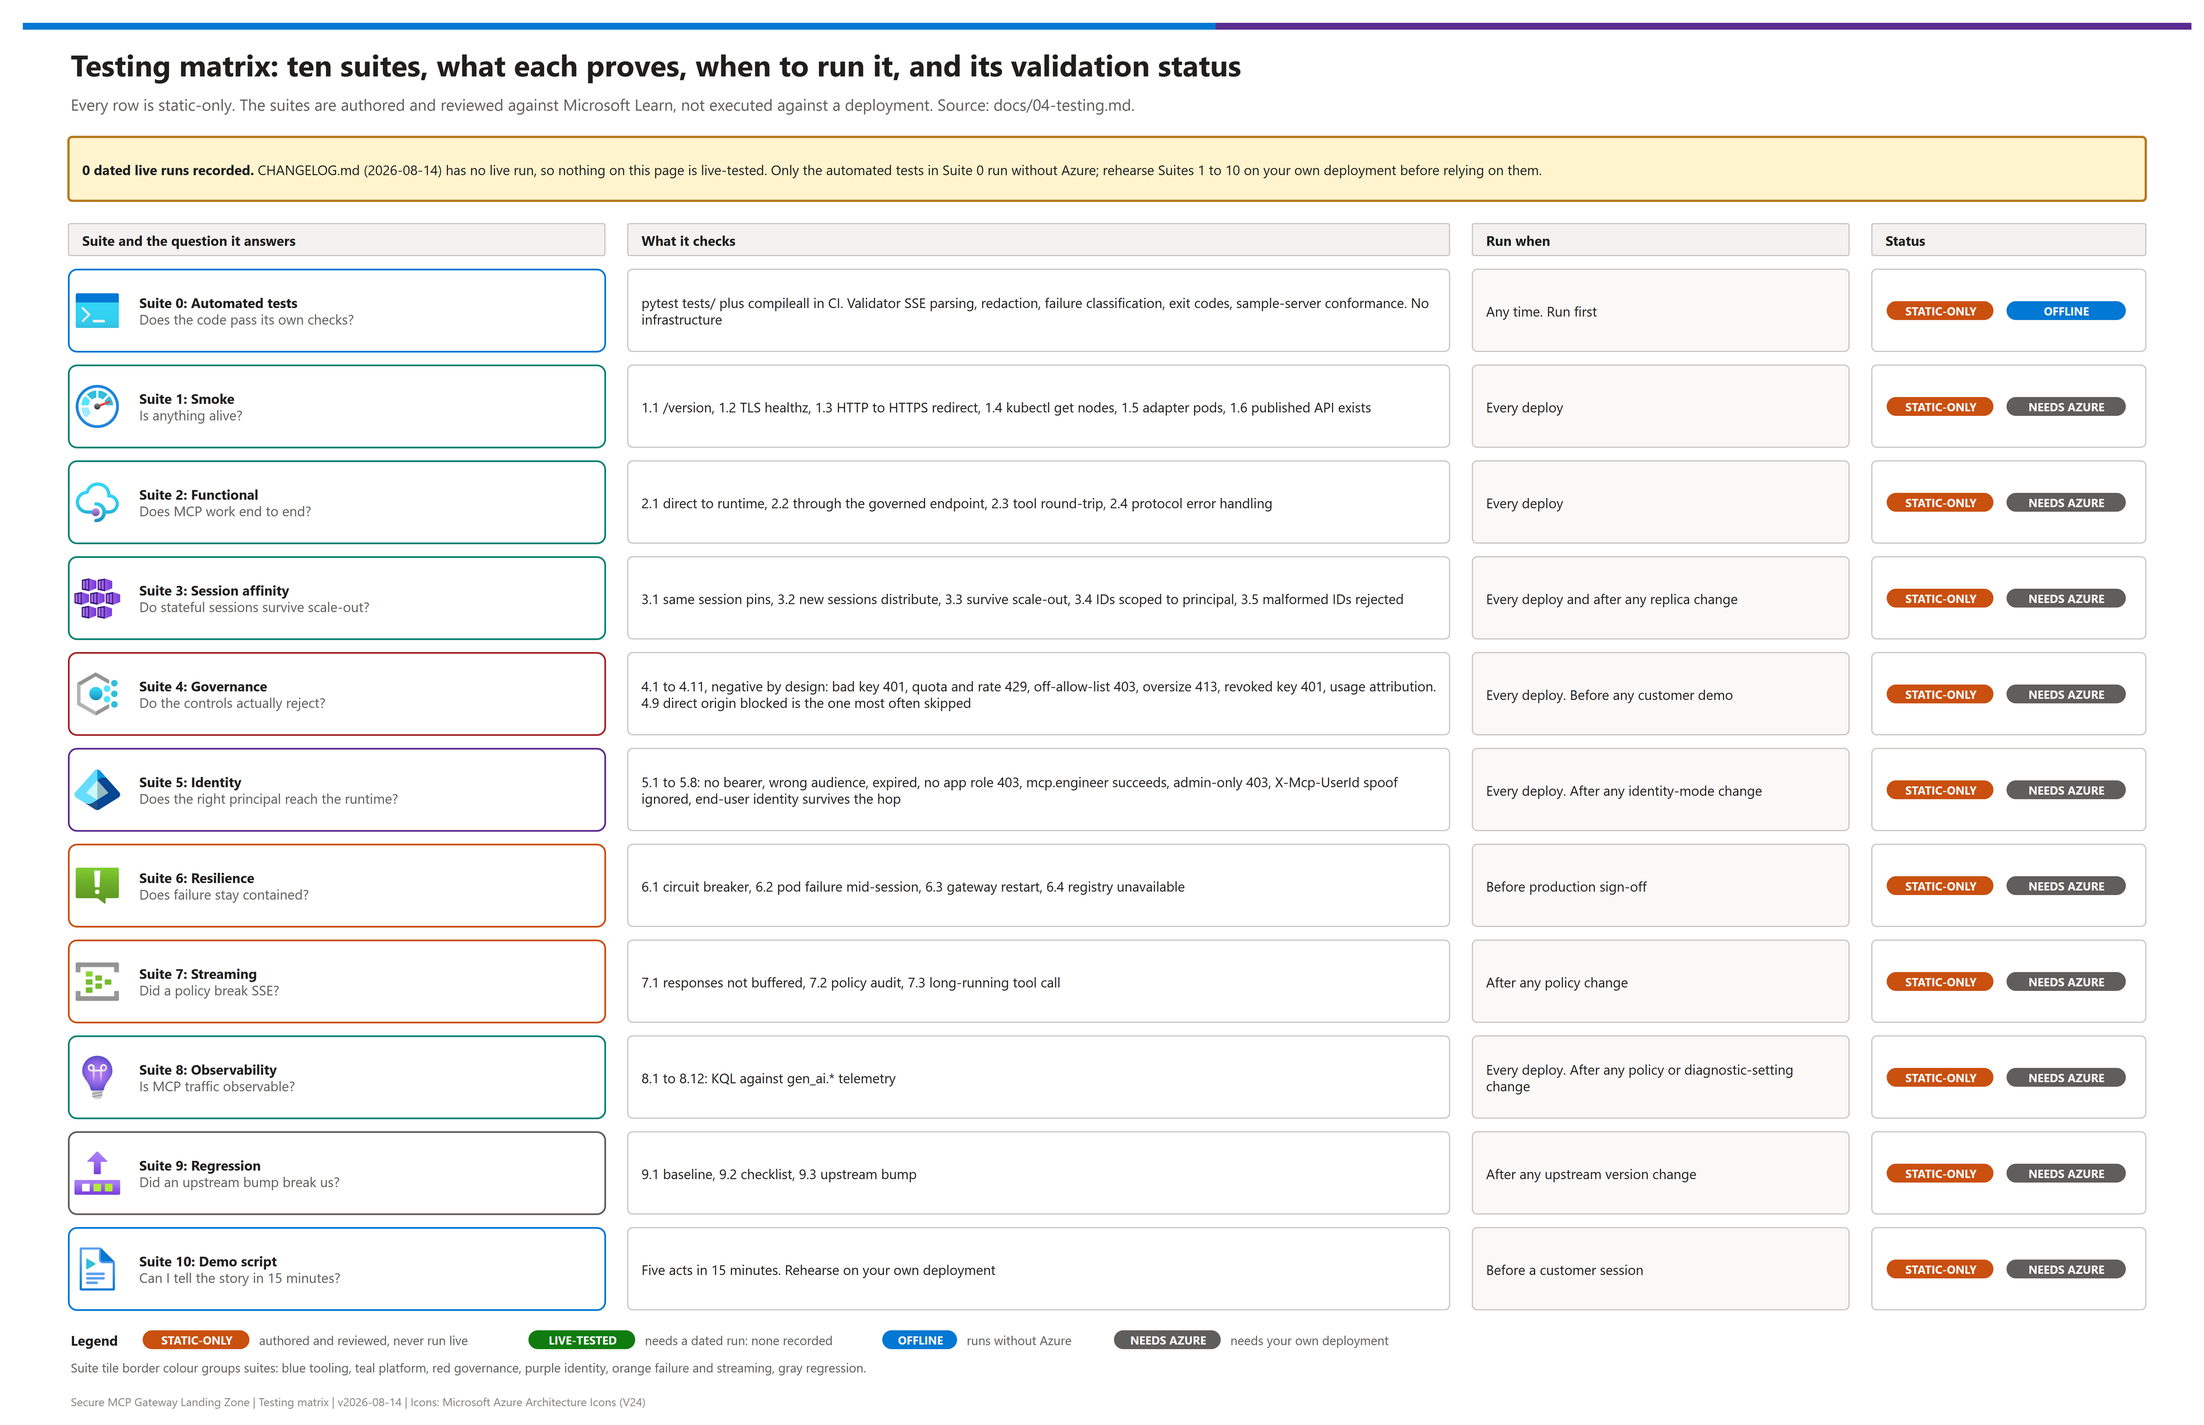
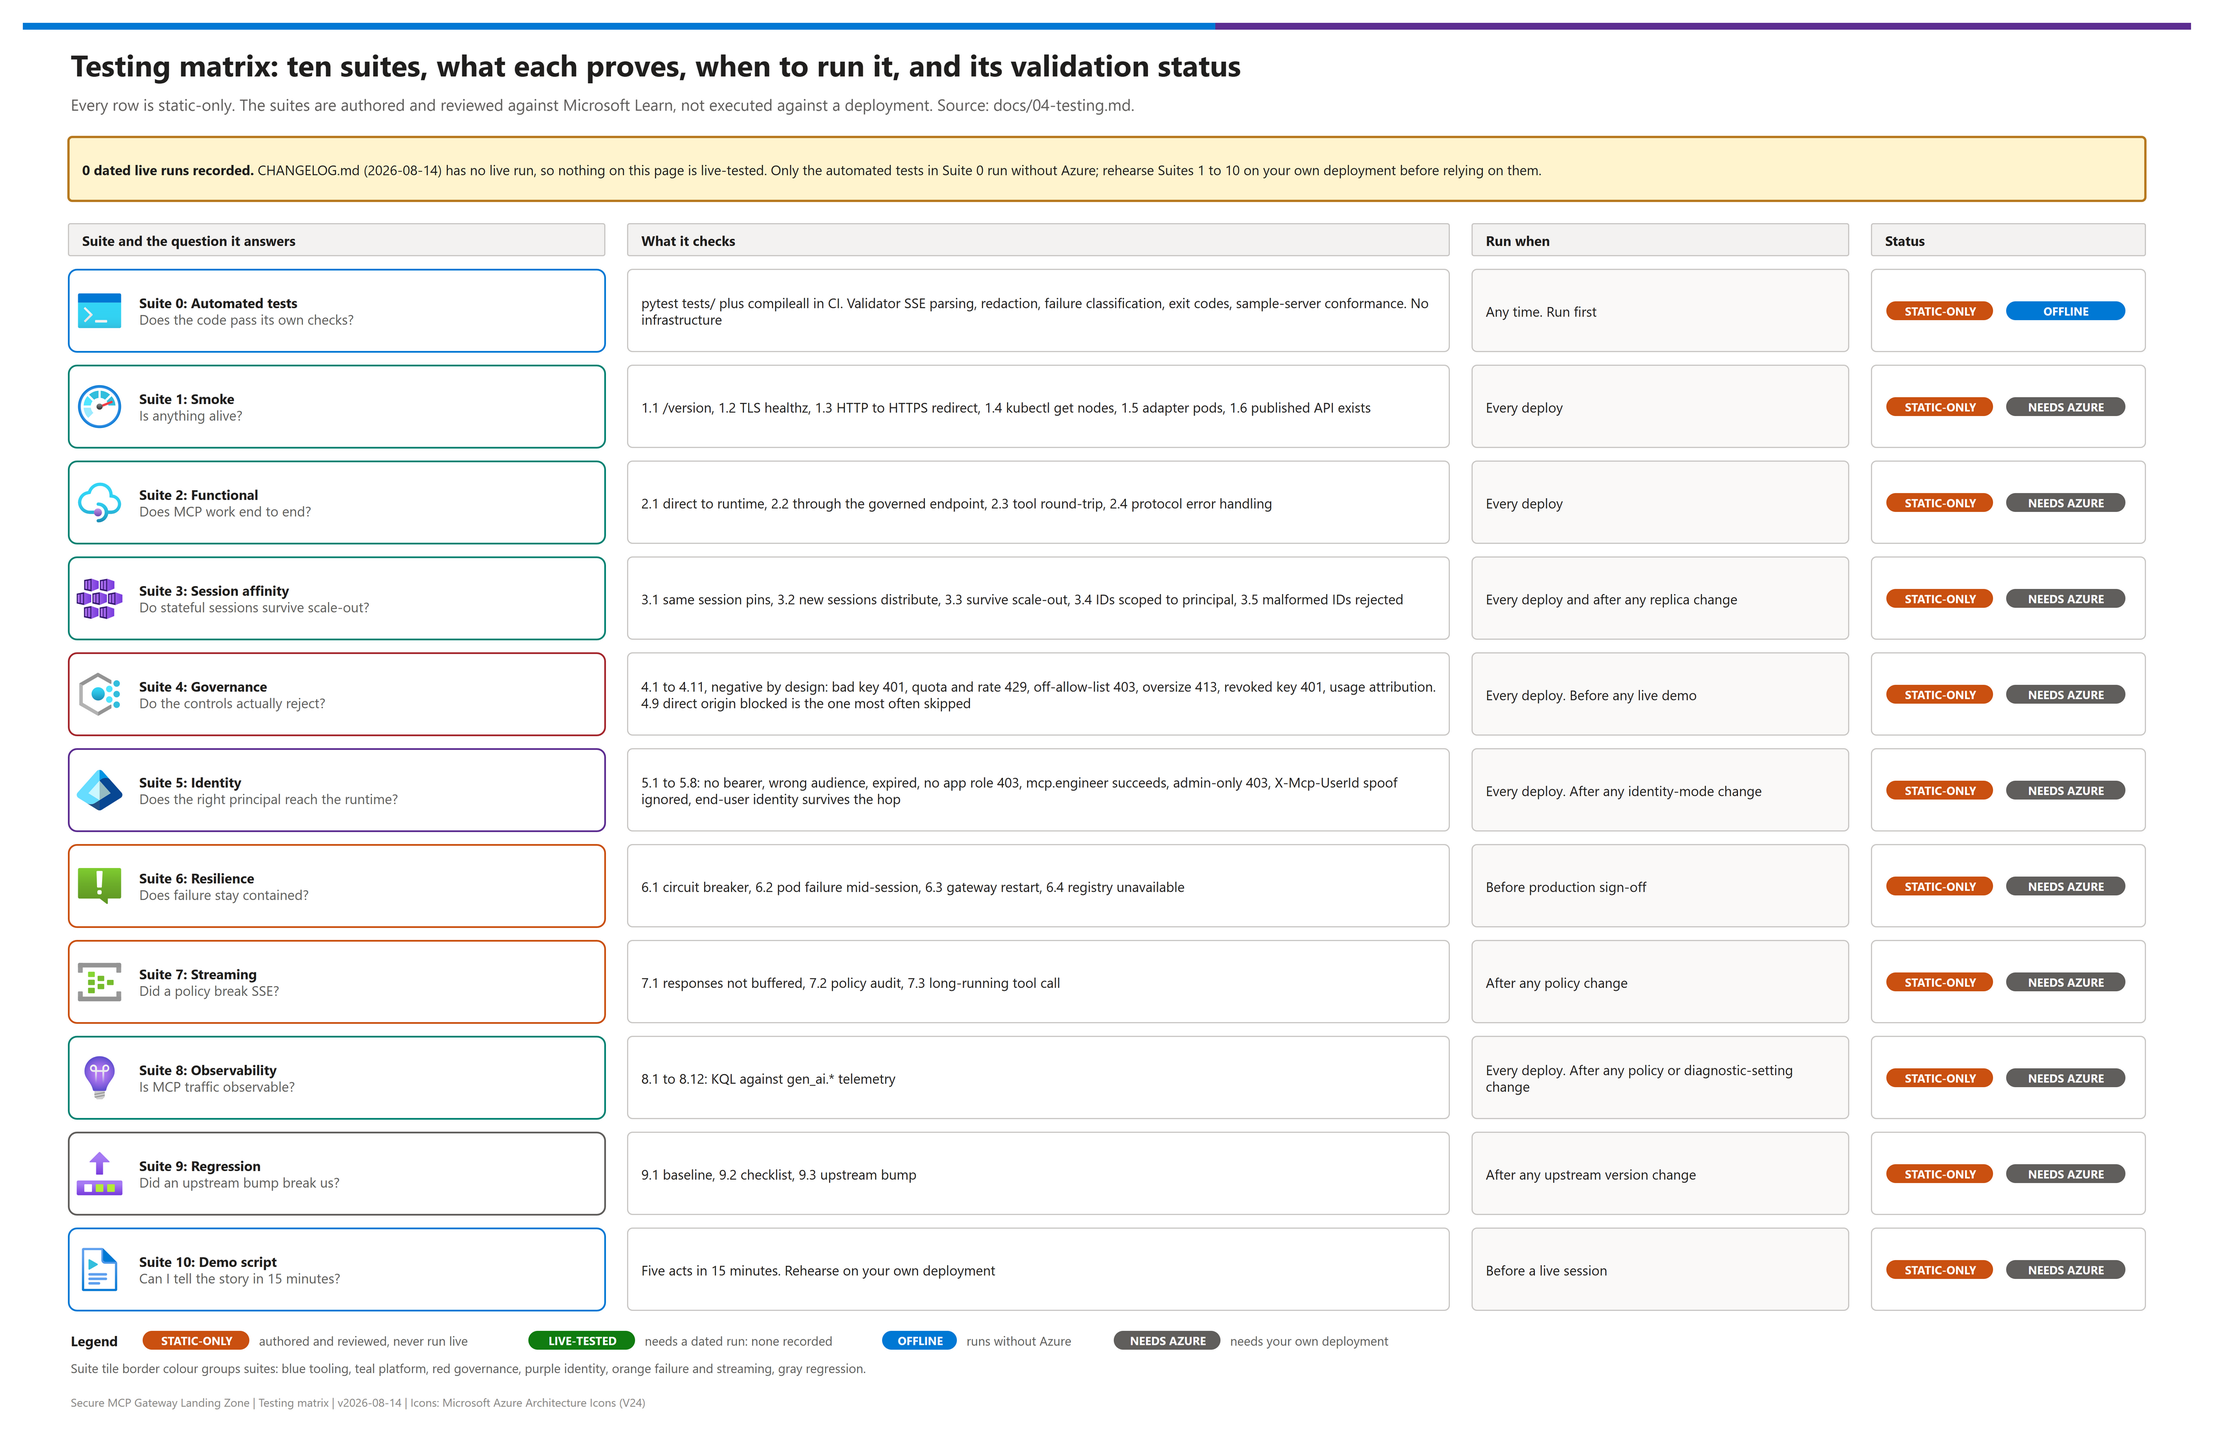
docs: customer-facing wording; remove internal terminology
Copilot-Session: d0f80635-099d-442c-a8b0-a62e914e1f52

Changed region(s): [[0.0311, 0.0312, 0.9943, 0.9992], [0.2796, 0.281, 0.6214, 0.3122], [0.2796, 0.7494, 0.4039, 0.7806]]

diff --git a/samples/README.md b/samples/README.md
@@ -14,7 +14,7 @@ This pattern ships with exactly one working reference server and four **design-a
 | Code you maintain | Yes, it's yours to fork | Varies by scenario — from *none* (scenario 2) to *all of it* (scenario 3) |
 | Ready to deploy as-is | Yes | No — each is a starting point you adapt to a real tool/workload |
 
-The reference server exists to prove the seam between the two planes works. It is deliberately too trivial to be an example of *what to build* — that's what this catalog is for. The originating requirement for this pattern was that it "can be used to expand on several examples" and be "a good starting point for several projects." This catalog is that expansion surface, kept generic and domain-agnostic so it applies to developer-platform tools, line-of-business data tools, operational tooling, or partner-facing catalogs alike — the same way the rest of this pattern is generic on purpose (see [`../README.md`](../README.md)).
+The reference server exists to prove the seam between the two planes works. It is deliberately too trivial to be an example of *what to build* — that's what this catalog is for. This pattern is meant to be expanded into several examples and to serve as a starting point for several projects. This catalog is that expansion surface, kept generic and domain-agnostic so it applies to developer-platform tools, line-of-business data tools, operational tooling, or partner-facing catalogs alike — the same way the rest of this pattern is generic on purpose (see [`../README.md`](../README.md)).
 
 Every scenario below assumes the baseline platform (both planes, per [`../01-architecture.md`](../docs/01-architecture.md)) is **already deployed** — these are extensions on top of a working landing zone, not alternate ways to stand one up. Start at [`../02-prerequisites.md`](../docs/02-prerequisites.md) / [`../03-deployment.md`](../docs/03-deployment.md) if that isn't true yet.
 
@@ -22,7 +22,7 @@ Every scenario below assumes the baseline platform (both planes, per [`../01-arc
 
 ## Decision table — what to start from
 
-| What the customer wants | Start from | What it exercises | Rough effort |
+| What you want | Start from | What it exercises | Rough effort |
 |---|---|---|---|
 | "We found (or already use) a community/third-party MCP server that only speaks **stdio**" — true of most community MCP servers today | [`01-stdio-bridge`](./scenarios/01-stdio-bridge.md) | `mcp-proxy` adapter bridging, the upstream trust boundary, tool-surface allow-listing as the primary compensating control | Low–Medium — hours once the image is vetted and built; most of the effort is the trust review, not the wiring |
 | "Our 'tools' are already REST APIs onboarded in API Management" | [`02-rest-api-as-mcp`](./scenarios/02-rest-api-as-mcp.md) | `assetType: mcp-from-api`, zero additional compute, the internal-hop 401 trap | Low — hours; no runtime plane, no new compute, just a Publish Contract asset |

diff --git a/README.md b/README.md
@@ -95,7 +95,7 @@ The pattern is **thin-code by design**: the integration itself is declarative pa
 
 ## Locked design decisions
 
-These are **the v1 baseline**. Deviate only with an explicit decision record and updated guidance.
+These are **the v1 baseline**. To deviate, record the reason and update this table and the guidance alongside the change.
 
 | # | Decision | Choice | Why |
 |---|---|---|---|
@@ -184,7 +184,7 @@ Full detail in [02-prerequisites.md](./docs/02-prerequisites.md):
 
 ### Use this pattern when
 
-- The customer wants to expose **more than a handful of MCP servers** to more than one consuming team, and needs onboarding, quota, and chargeback to be a repeatable process rather than a ticket
+- You want to expose **more than a handful of MCP servers** to more than one consuming team, and needs onboarding, quota, and chargeback to be a repeatable process rather than a ticket
 - MCP servers are **arbitrary containers** — internally built, community stdio servers, or remote endpoints — and teams need **self-service registration** without a platform redeploy
 - MCP sessions are **stateful** and must survive horizontal scaling
 - The organization **already governs LLM traffic** through an AI gateway and wants tool traffic under the same control plane, the same key, and the same cost model
@@ -223,7 +223,7 @@ Each scenario documents when **not** to use it, the architecture delta, the exac
 ## Maturity and honesty notes
 
 > [!IMPORTANT]
-> This pattern deliberately documents where the ground is soft. Read these before putting it in front of a customer.
+> This pattern deliberately documents where the ground is soft. Read these before presenting or adopting it.
 
 1. **This specific composition is not an official Microsoft reference architecture.** Both upstreams are real and Microsoft-authored, and the Publish Contract seam is a supported extensibility point — but neither repository documents fronting the MCP Gateway with API Management. Present it as an integration you are standing up and validating, not as a published Microsoft blueprint.
 2. **Protocol-era risk is the largest single risk.** The MCP runtime's session model assumes the legacy session-oriented protocol. A newer spec revision removes protocol-level sessions entirely, and upstream tracking for dual-era support is open. Pin your client and server SDK versions deliberately and test against the exact revision your client speaks.

diff --git a/docs/02-prerequisites.md b/docs/02-prerequisites.md
@@ -262,7 +262,7 @@ Both planes, and the Foundry model deployment specifically, need to land in a re
 |---|---|---|
 | **Tier 1 — strongly recommended** | East US 2, Sweden Central, West Europe | Best current alignment across APIM StandardV2, Foundry model breadth, AKS, and the newer/narrower-rollout services (API Center, Azure Managed Redis). Default choice unless data-residency or latency requirements force otherwise. |
 | **Tier 2 — acceptable** | East US, West US 3, UK South, Australia East | Core services (AKS, Cosmos DB, Event Hub, APIM Premium, Application Gateway, Private Endpoints) are reliably available; the newer/narrower-rollout services (APIM StandardV2 specifically, API Center, Azure Managed Redis, and specific Foundry model/version combinations) need an explicit availability check before committing — see § 7.3. |
-| **Tier 3 — workarounds required** | Any region not confirmed to offer APIM StandardV2 and/or Azure API Center | Treat as a fallback only. If forced into a Tier 3 region (data residency, customer mandate), plan workarounds up front: fall back to `APIM_SKU=Premium` or `Developer` instead of StandardV2, set `ENABLE_API_CENTER=false`, and consider deploying the Foundry model in a paired Tier-1/Tier-2 region if cross-region model access is acceptable for the demo. **Do not guess which regions fall into this tier — run the § 7.3 verification commands against your actual candidate region.** |
+| **Tier 3 — workarounds required** | Any region not confirmed to offer APIM StandardV2 and/or Azure API Center | Treat as a fallback only. If forced into a Tier 3 region (data residency, regulatory or contractual mandate), plan workarounds up front: fall back to `APIM_SKU=Premium` or `Developer` instead of StandardV2, set `ENABLE_API_CENTER=false`, and consider deploying the Foundry model in a paired Tier-1/Tier-2 region if cross-region model access is acceptable for the demo. **Do not guess which regions fall into this tier — run the § 7.3 verification commands against your actual candidate region.** |
 
 ### 7.2 Component availability matrix (published 2026-08-14 — verify before relying on it)
 

diff --git a/docs/04-testing.md b/docs/04-testing.md
@@ -43,13 +43,13 @@ Prerequisite: [03-deployment.md](./03-deployment.md) complete through Phase 8.
 | [1. Smoke](#1-smoke-tests) | Is anything alive? | Every deploy |
 | [2. Functional](#2-functional-tests) | Does MCP work end to end? | Every deploy |
 | [3. Session affinity](#3-session-affinity-tests) | Do stateful sessions survive scale-out? | Every deploy, and after any replica change |
-| [4. Governance](#4-governance-tests-negative-by-design) | Do the controls actually reject? | Every deploy; **before any customer demo** |
+| [4. Governance](#4-governance-tests-negative-by-design) | Do the controls actually reject? | Every deploy; **before any live demo** |
 | [5. Identity](#5-identity-and-token-flow-tests) | Does the right principal reach the runtime? | Every deploy; after any identity-mode change |
 | [6. Resilience](#6-resilience-tests) | Does failure stay contained? | Before production sign-off |
 | [7. Streaming](#7-streaming-integrity-tests) | Did a policy break SSE? | **After any policy change** |
 | [8. Observability](#8-observability-and-telemetry-tests) | Is MCP traffic actually observable? | Every deploy; after any policy or diagnostic-setting change |
 | [9. Regression](#9-regression-harness) | Did an upstream bump break us? | After any upstream version change |
-| [10. Demo script](#10-demo-script) | Can I tell the story in 15 minutes? | Before a customer session |
+| [10. Demo script](#10-demo-script) | Can I tell the story in 15 minutes? | Before a live session |
 
 ## Validation status
 
@@ -204,7 +204,7 @@ Send session identifiers containing `../`, a very long string, and shell metacha
 
 ## 4. Governance tests (negative by design)
 
-**Run every one of these before a customer demo.** Each proves a control engages.
+**Run every one of these before a live demo.** Each proves a control engages.
 
 | # | Test | Expected | Proves |
 |---|---|---|---|

diff --git a/samples/scenarios/02-rest-api-as-mcp.md b/samples/scenarios/02-rest-api-as-mcp.md
@@ -147,7 +147,7 @@ If the source API needs real end-user identity for its own authorization (row-le
 
 1. Confirm the API is resolvable and its operations are what you expect (step 1 above) **before** publishing.
 2. Run [`../../scripts/validate_mcp_endpoint.py`](../../scripts/validate_mcp_endpoint.py) against `https://<apim-gateway-host>/mcp/<ASSET_PATH>/mcp` (note the trailing `/mcp`) to confirm `initialize` → `tools/list` succeed and the exposed `operationNames` appear as tools.
-3. Deliberately test **both branches of the 401 trap**: call `tools/call` once before resolving the key-forwarding decision (step 3) to see the partial failure firsthand, then again after fixing it, to confirm the difference. This is worth doing once so the failure mode is recognizable in the field rather than mistaken for a broken deployment.
+3. Deliberately test **both branches of the 401 trap**: call `tools/call` once before resolving the key-forwarding decision (step 3) to see the partial failure firsthand, then again after fixing it, to confirm the difference. This is worth doing once so the failure mode is recognizable in real deployments rather than mistaken for a broken deployment.
 4. If you set `forwardSubscriptionKeyToSource: true`, confirm the Access Contract's `apiNameMapping` also grants the consumer's product access to the source API itself, not just the synthesized MCP asset.
 
 ---

diff --git a/docs/06-mcp-publishing-and-access-contracts.md b/docs/06-mcp-publishing-and-access-contracts.md
@@ -83,7 +83,7 @@ If you get a `404` on a `mcp-existing` asset, the first thing to check is whethe
 
 ### When you should not use this pattern at all
 
-If your tools genuinely are REST APIs already managed in API Management, `mcp-from-api` gives you an MCP surface with **zero additional compute**. You do not need a Kubernetes runtime, session affinity, or this landing zone. Say so to the customer rather than over-architecting.
+If your tools genuinely are REST APIs already managed in API Management, `mcp-from-api` gives you an MCP surface with **zero additional compute**. You do not need a Kubernetes runtime, session affinity, or this landing zone. Choose the simpler path rather than over-architecting.
 
 This pattern earns its complexity when MCP servers are arbitrary workloads that must be hosted, scaled, and session-affine.
 
@@ -273,7 +273,7 @@ Underscores in secret names are normalized to hyphens (`MCP_TOOL_API_KEY` → `M
 
 ## What API Management provides natively — and what it does not
 
-Verified against Microsoft Learn, 2026-08-14. Re-check before a customer-facing build; this surface is moving.
+Verified against Microsoft Learn, 2026-08-14. Re-check before a production build; this surface is moving.
 
 | Capability | State | Source |
 |---|---|---|

diff --git a/docs/00-reproduce-this-demo.md b/docs/00-reproduce-this-demo.md
@@ -291,7 +291,7 @@ Confirm before Part A. Full detail in [02-prerequisites.md](./02-prerequisites.m
 
 ## Part G — Prove it *(~30 min)*
 
-**Goal:** every control demonstrably engages. **Do not skip before a customer session.**
+**Goal:** every control demonstrably engages. **Do not skip before a live demo.**
 
 → [04-testing.md](./04-testing.md)
 
@@ -332,7 +332,7 @@ When you need something demonstrable today and are willing to accept an insecure
 | Part F publish | Access Contract | No quota or chargeback |
 | One smoke test | Everything else | Unverified controls |
 
-**Never show a compressed build to a customer as representative.** Label it a lab, and never leave one running with an internet-reachable, HTTP-only origin.
+**Never present a compressed build as representative.** Label it a lab, and never leave one running with an internet-reachable, HTTP-only origin.
 
 ---
 

diff --git a/CHANGELOG.md b/CHANGELOG.md
@@ -6,6 +6,12 @@ Format loosely follows [Keep a Changelog](https://keepachangelog.com/). Dates ar
 
 ---
 
+## Unreleased
+
+- Docs: rewrote for external audiences; removed internal terminology. Demo and testing guidance now says "live demo" / "live session" instead of assuming a customer audience, scenario tables address the reader ("What you want"), the locked-decisions note no longer refers to a separate decision record, and the testing-matrix diagram labels were updated (PNG re-exported).
+
+---
+
 ## 2026-08-14 — Alignment review against Microsoft Learn
 
 Reviewed the API Management side of the pattern against current Microsoft Learn documentation for MCP server support. **Everything below is a correction to this pattern, not a change in upstream behaviour.**

diff --git a/docs/08-observability-and-governance-parity.md b/docs/08-observability-and-governance-parity.md
@@ -352,7 +352,7 @@ Run this after any deploy or policy change, alongside the governance tests in [0
 
 ## Source pages referenced in this document
 
-Verify against the live pages before reusing exact field names, portal paths, or policy syntax in a customer-facing artifact — Microsoft revises these regularly, and this pattern verifies drift the same way (see the root [README.md § Upstream pins](../README.md#upstream-pins)).
+Verify against the live pages before reusing exact field names, portal paths, or policy syntax in a published artifact — Microsoft revises these regularly, and this pattern verifies drift the same way (see the root [README.md § Upstream pins](../README.md#upstream-pins)).
 
 | Page | Cited for | Verified |
 |---|---|---|
